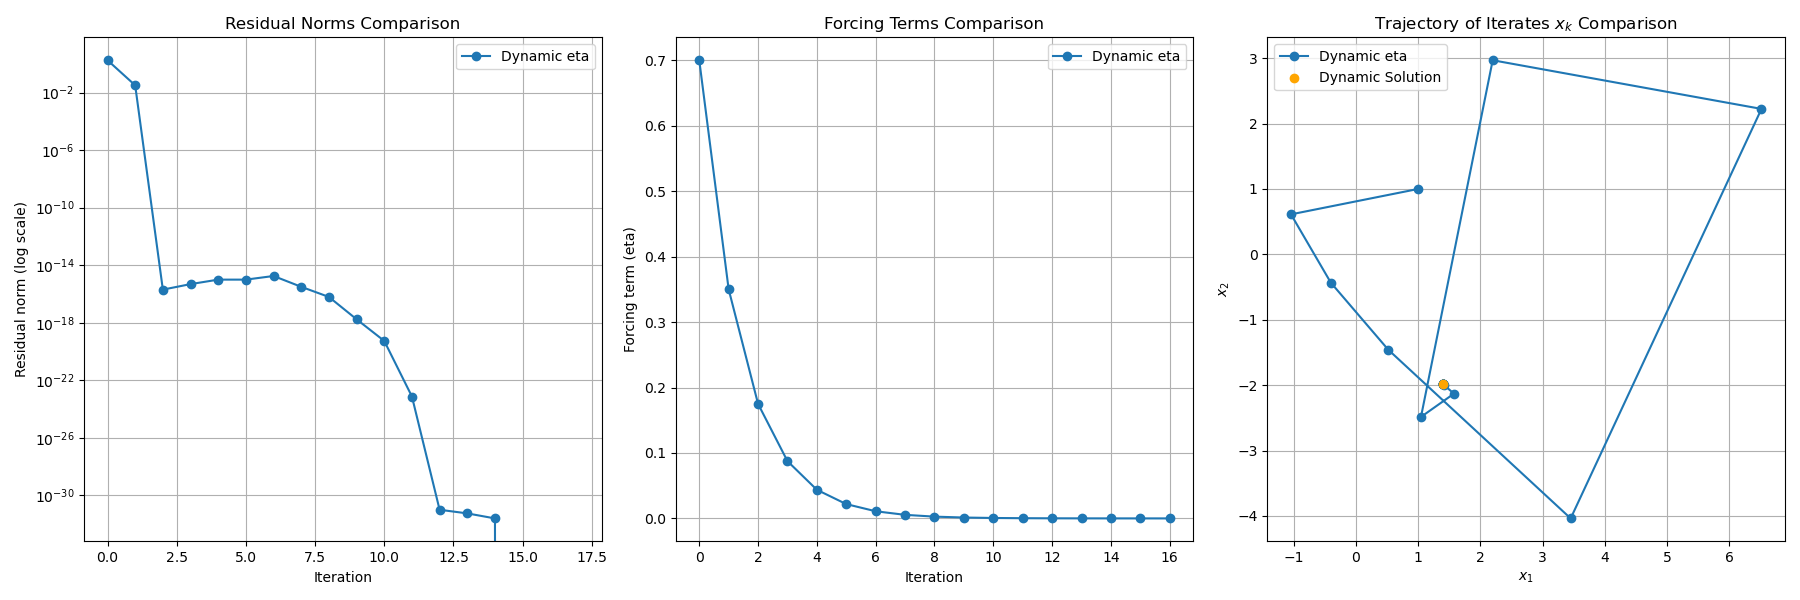
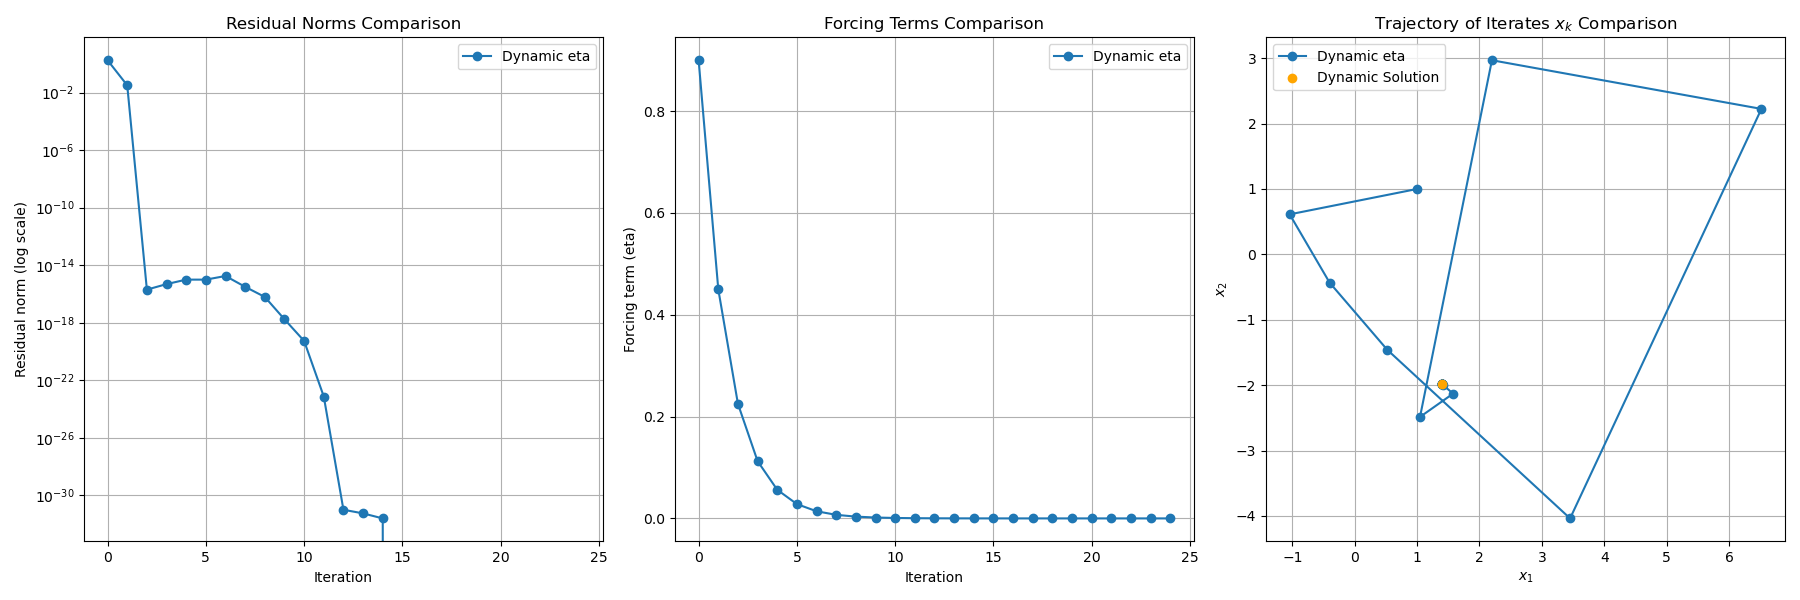
Cleaned Eta Code

diff --git a/app/newton.py b/app/newton.py
@@ -137,8 +137,8 @@ def inexact_newton(x0, eta=None, tol=1e-25, max_iter=100, eta_max = 0.7):
 if __name__ == "__main__":
     # size of eta for now
     tol = 1e-15
-    max_iter = 100
-    max_eta = 0.9
+    max_iter = 25
+    eta_max = 0.9
     eta = [eta_max / (2**n) for n in range(max_iter)]
     eta_slow = [eta_max/(n+1) for n in range(max_iter)]
     x, residuals, eta = inexact_newton(np.array([1,1]), eta=eta, tol=tol, max_iter=max_iter, eta_max = eta_max)
